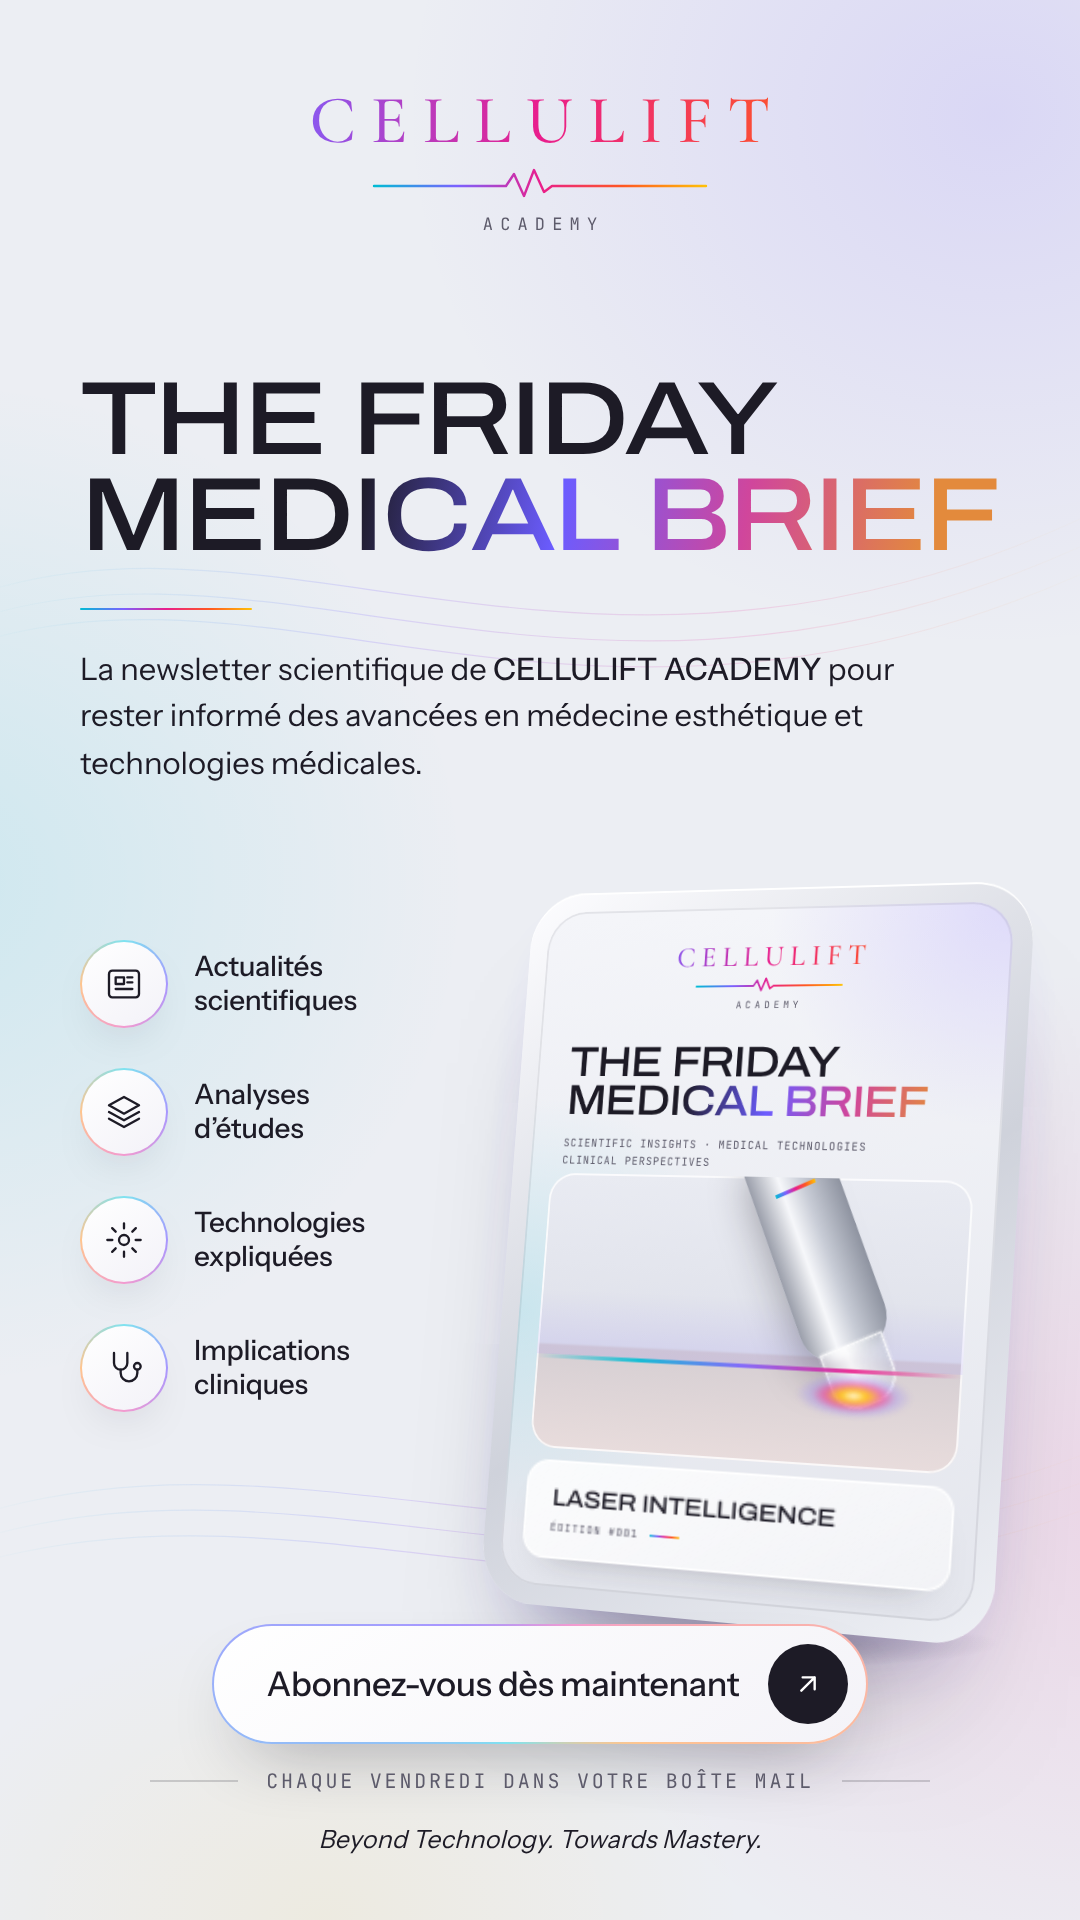
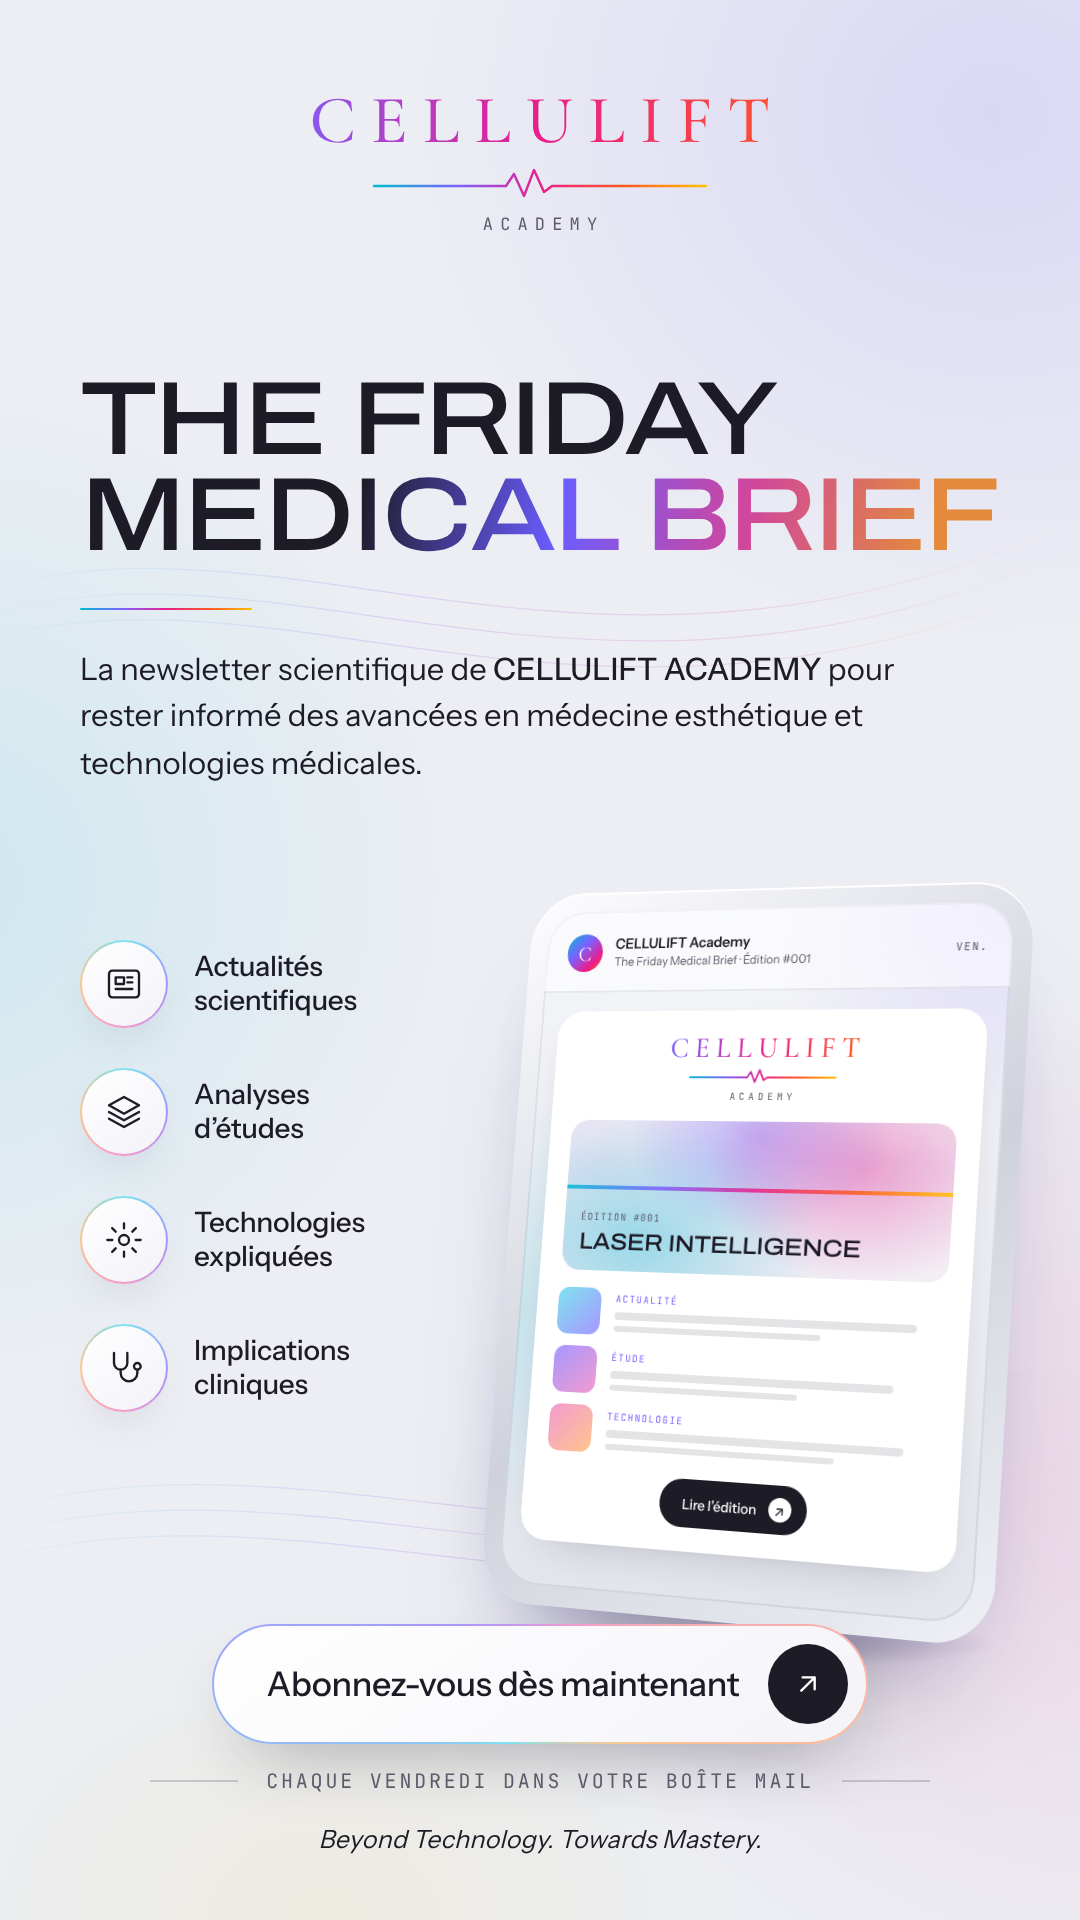
Newsletter : la tablette montre un e-mail (expéditeur, édition, rubriques, bouton) à la place de la pièce à main laser
Claude-Session: https://claude.ai/code/session_013WzSXnYZRENhXh8EE8VY2P

Changed region(s): [[0.4889, 0.4688, 0.9167, 0.8438]]

diff --git a/academy/newsletter/friday-medical-brief.html b/academy/newsletter/friday-medical-brief.html
@@ -108,6 +108,36 @@
   .shadow{position:absolute;left:58px;bottom:16px;width:230px;height:24px;border-radius:50%;
     background:radial-gradient(closest-side,rgba(29,27,38,.22),transparent)}
 
+
+  /* écran : e-mail */
+  .m-bar{display:flex;align-items:center;gap:7px;padding:12px 12px 10px;border-bottom:1px solid rgba(29,27,38,.08);background:rgba(255,255,255,.55)}
+  .av{flex:none;width:20px;height:20px;border-radius:50%;display:grid;place-items:center;font-family:"Cormorant Garamond",serif;font-size:11px;color:#fff;
+    background:linear-gradient(135deg,#00BCD4,#7B61FF 40%,#E91E8C 75%,#FF5722)}
+  .m-from{display:flex;flex-direction:column;gap:1px;min-width:0;flex:1}
+  .m-from b{font-size:7.5px;font-weight:600}
+  .m-from span{font-size:6.2px;color:var(--soft);white-space:nowrap;overflow:hidden;text-overflow:ellipsis}
+  .m-when{font-size:5.5px;color:var(--soft)}
+  .m-body{margin:10px;border-radius:14px;background:#fff;padding:12px 12px 12px;box-shadow:0 10px 24px -16px rgba(29,27,38,.35)}
+  .m-body .s-logo{padding-top:0}
+  .hero{position:relative;margin-top:9px;height:78px;border-radius:10px;overflow:hidden;
+    background:radial-gradient(120px 80px at 78% 30%,rgba(233,30,140,.35),transparent 70%),radial-gradient(140px 90px at 20% 80%,rgba(0,188,212,.35),transparent 70%),
+      radial-gradient(100px 70px at 50% 10%,rgba(123,97,255,.4),transparent 70%),linear-gradient(135deg,#E6E4F2,#F3EEF4)}
+  .hero-scan{position:absolute;left:0;right:0;top:44%;height:1.2px;background:var(--rainbow);opacity:.85;box-shadow:0 -10px 18px rgba(123,97,255,.25)}
+  .hero-txt{position:absolute;left:9px;bottom:8px;display:flex;flex-direction:column;gap:2px}
+  .hero-txt span{font-size:5px;color:var(--soft)}
+  .hero-txt b{font-family:"Archivo",sans-serif;font-stretch:118%;font-weight:500;text-transform:uppercase;letter-spacing:-.02em;font-size:12px}
+  .rows{margin-top:9px;display:flex;flex-direction:column;gap:6px}
+  .row{display:flex;gap:8px;align-items:center}
+  .row>div{flex:1;display:flex;flex-direction:column;gap:3px}
+  .row span{font-size:5px;color:#7B61FF;letter-spacing:.16em}
+  .row em{display:block;height:3.5px;border-radius:3px;background:rgba(29,27,38,.12)}
+  .th{flex:none;width:24px;height:24px;border-radius:6px}
+  .t1{background:linear-gradient(135deg,#7FE3F0,#A797FF)}
+  .t2{background:linear-gradient(135deg,#A797FF,#F29BD0)}
+  .t3{background:linear-gradient(135deg,#F29BD0,#FFC58F)}
+  .m-cta{margin:10px auto 0;width:max-content;padding:6px 8px 6px 12px;border-radius:99px;background:var(--deep);color:#fff;font-size:7px;font-weight:500;display:flex;gap:6px;align-items:center}
+  .m-cta span{width:12px;height:12px;border-radius:50%;background:#fff;color:var(--deep);display:grid;place-items:center;font-size:7px}
+
   /* CTA */
   .cta-wrap{position:absolute;top:812px;left:0;right:0;display:flex;justify-content:center}
   .cta{position:relative;display:flex;align-items:center;gap:14px;padding:9px 9px 9px 26px;border-radius:99px;
@@ -166,22 +196,27 @@
     <div class="shadow"></div>
     <div class="tablet">
       <div class="screen">
-        <div class="s-logo">
-          <div class="word">CELLULIFT</div>
-          <svg class="ecg" viewBox="0 0 170 16" aria-hidden="true"><path d="M2 9 H62 L68 9 L72 3 L77 14 L82 1 L87 12 L91 9 H168" fill="none" stroke="url(#rb)" stroke-width="2" stroke-linecap="round" stroke-linejoin="round"/></svg>
-          <div class="tag mono">Academy</div>
+        <div class="m-bar">
+          <span class="av">C</span>
+          <div class="m-from"><b>CELLULIFT Academy</b><span>The Friday Medical Brief · Édition #001</span></div>
+          <span class="m-when mono">Ven.</span>
         </div>
-        <div class="s-title">The Friday<span class="ir">Medical Brief</span></div>
-        <div class="s-sub mono">Scientific insights · Medical technologies<br>Clinical perspectives</div>
-        <div class="visual">
-          <div class="scan-wash"></div>
-          <div class="hp"></div>
-          <div class="glow"></div>
-          <div class="scan"></div>
-        </div>
-        <div class="s-foot">
-          <div class="k">Laser Intelligence</div>
-          <div class="e mono">Édition #001 <i></i></div>
+        <div class="m-body">
+          <div class="s-logo">
+            <div class="word">CELLULIFT</div>
+            <svg class="ecg" viewBox="0 0 170 16" aria-hidden="true"><path d="M2 9 H62 L68 9 L72 3 L77 14 L82 1 L87 12 L91 9 H168" fill="none" stroke="url(#rb)" stroke-width="2" stroke-linecap="round" stroke-linejoin="round"/></svg>
+            <div class="tag mono">Academy</div>
+          </div>
+          <div class="hero">
+            <div class="hero-scan"></div>
+            <div class="hero-txt"><span class="mono">Édition #001</span><b>Laser Intelligence</b></div>
+          </div>
+          <div class="rows">
+            <div class="row"><i class="th t1"></i><div><span class="mono">Actualité</span><em style="width:92%"></em><em style="width:64%"></em></div></div>
+            <div class="row"><i class="th t2"></i><div><span class="mono">Étude</span><em style="width:86%"></em><em style="width:58%"></em></div></div>
+            <div class="row"><i class="th t3"></i><div><span class="mono">Technologie</span><em style="width:90%"></em><em style="width:70%"></em></div></div>
+          </div>
+          <div class="m-cta">Lire l’édition <span>↗</span></div>
         </div>
       </div>
     </div>
